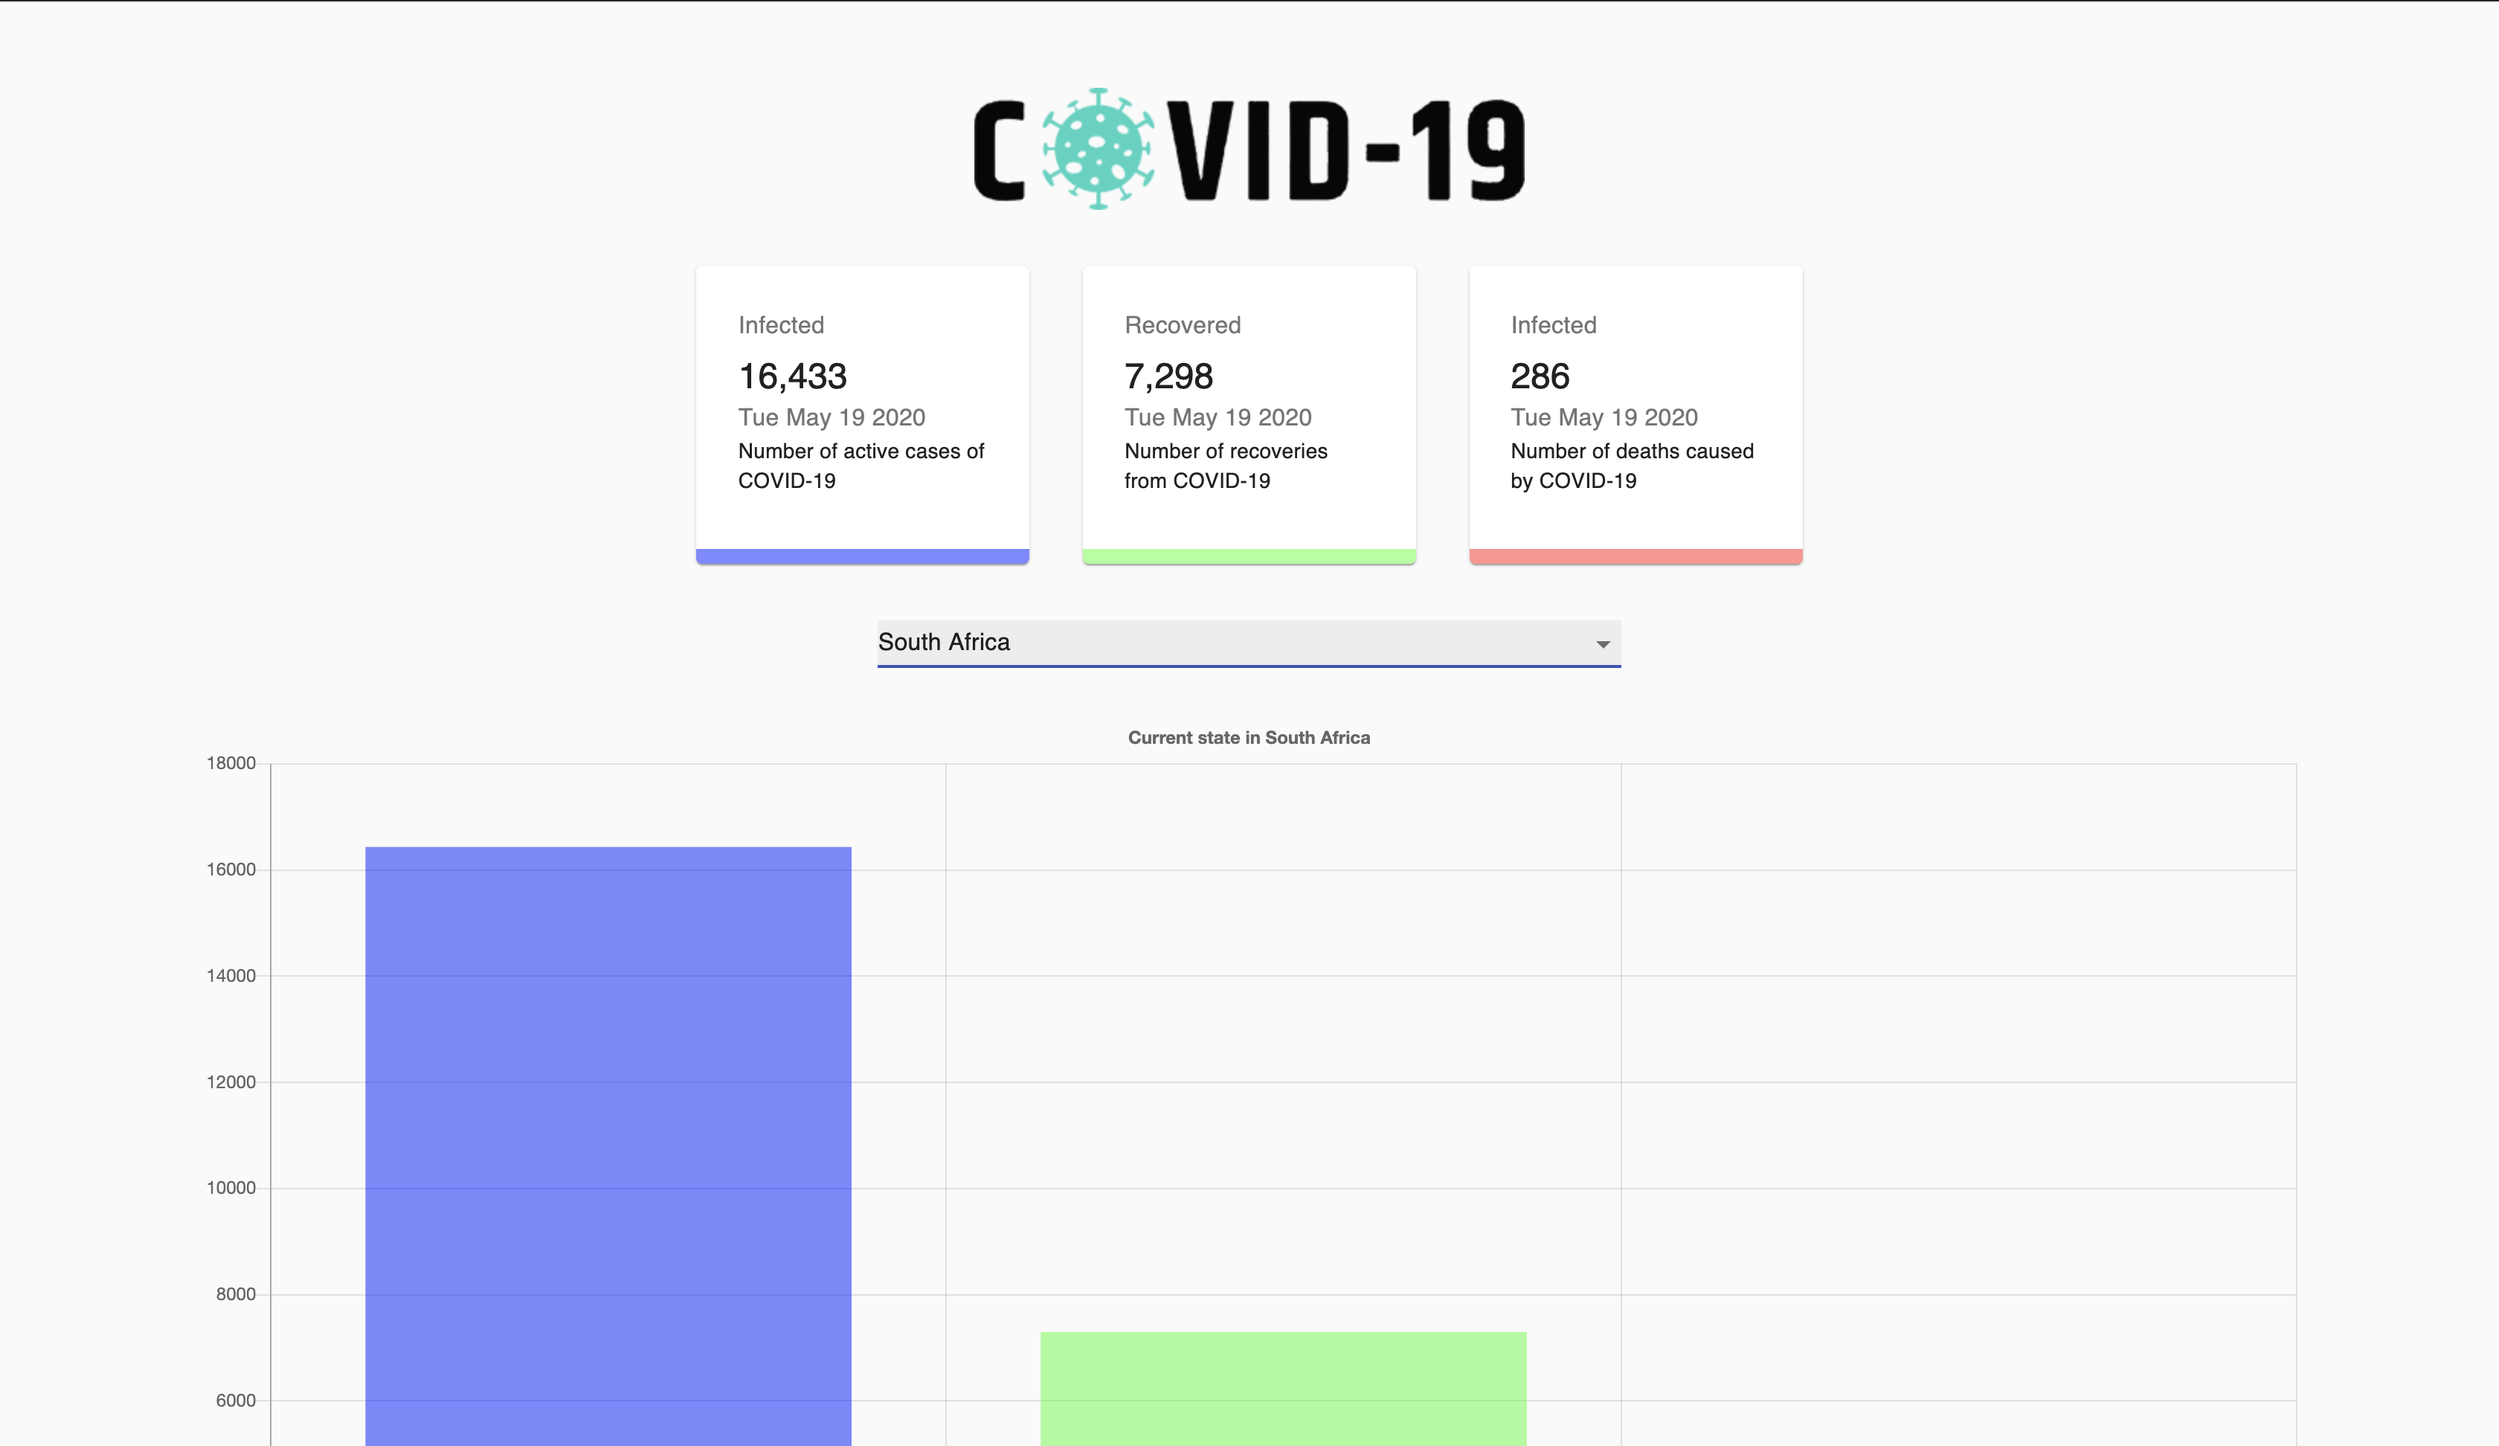
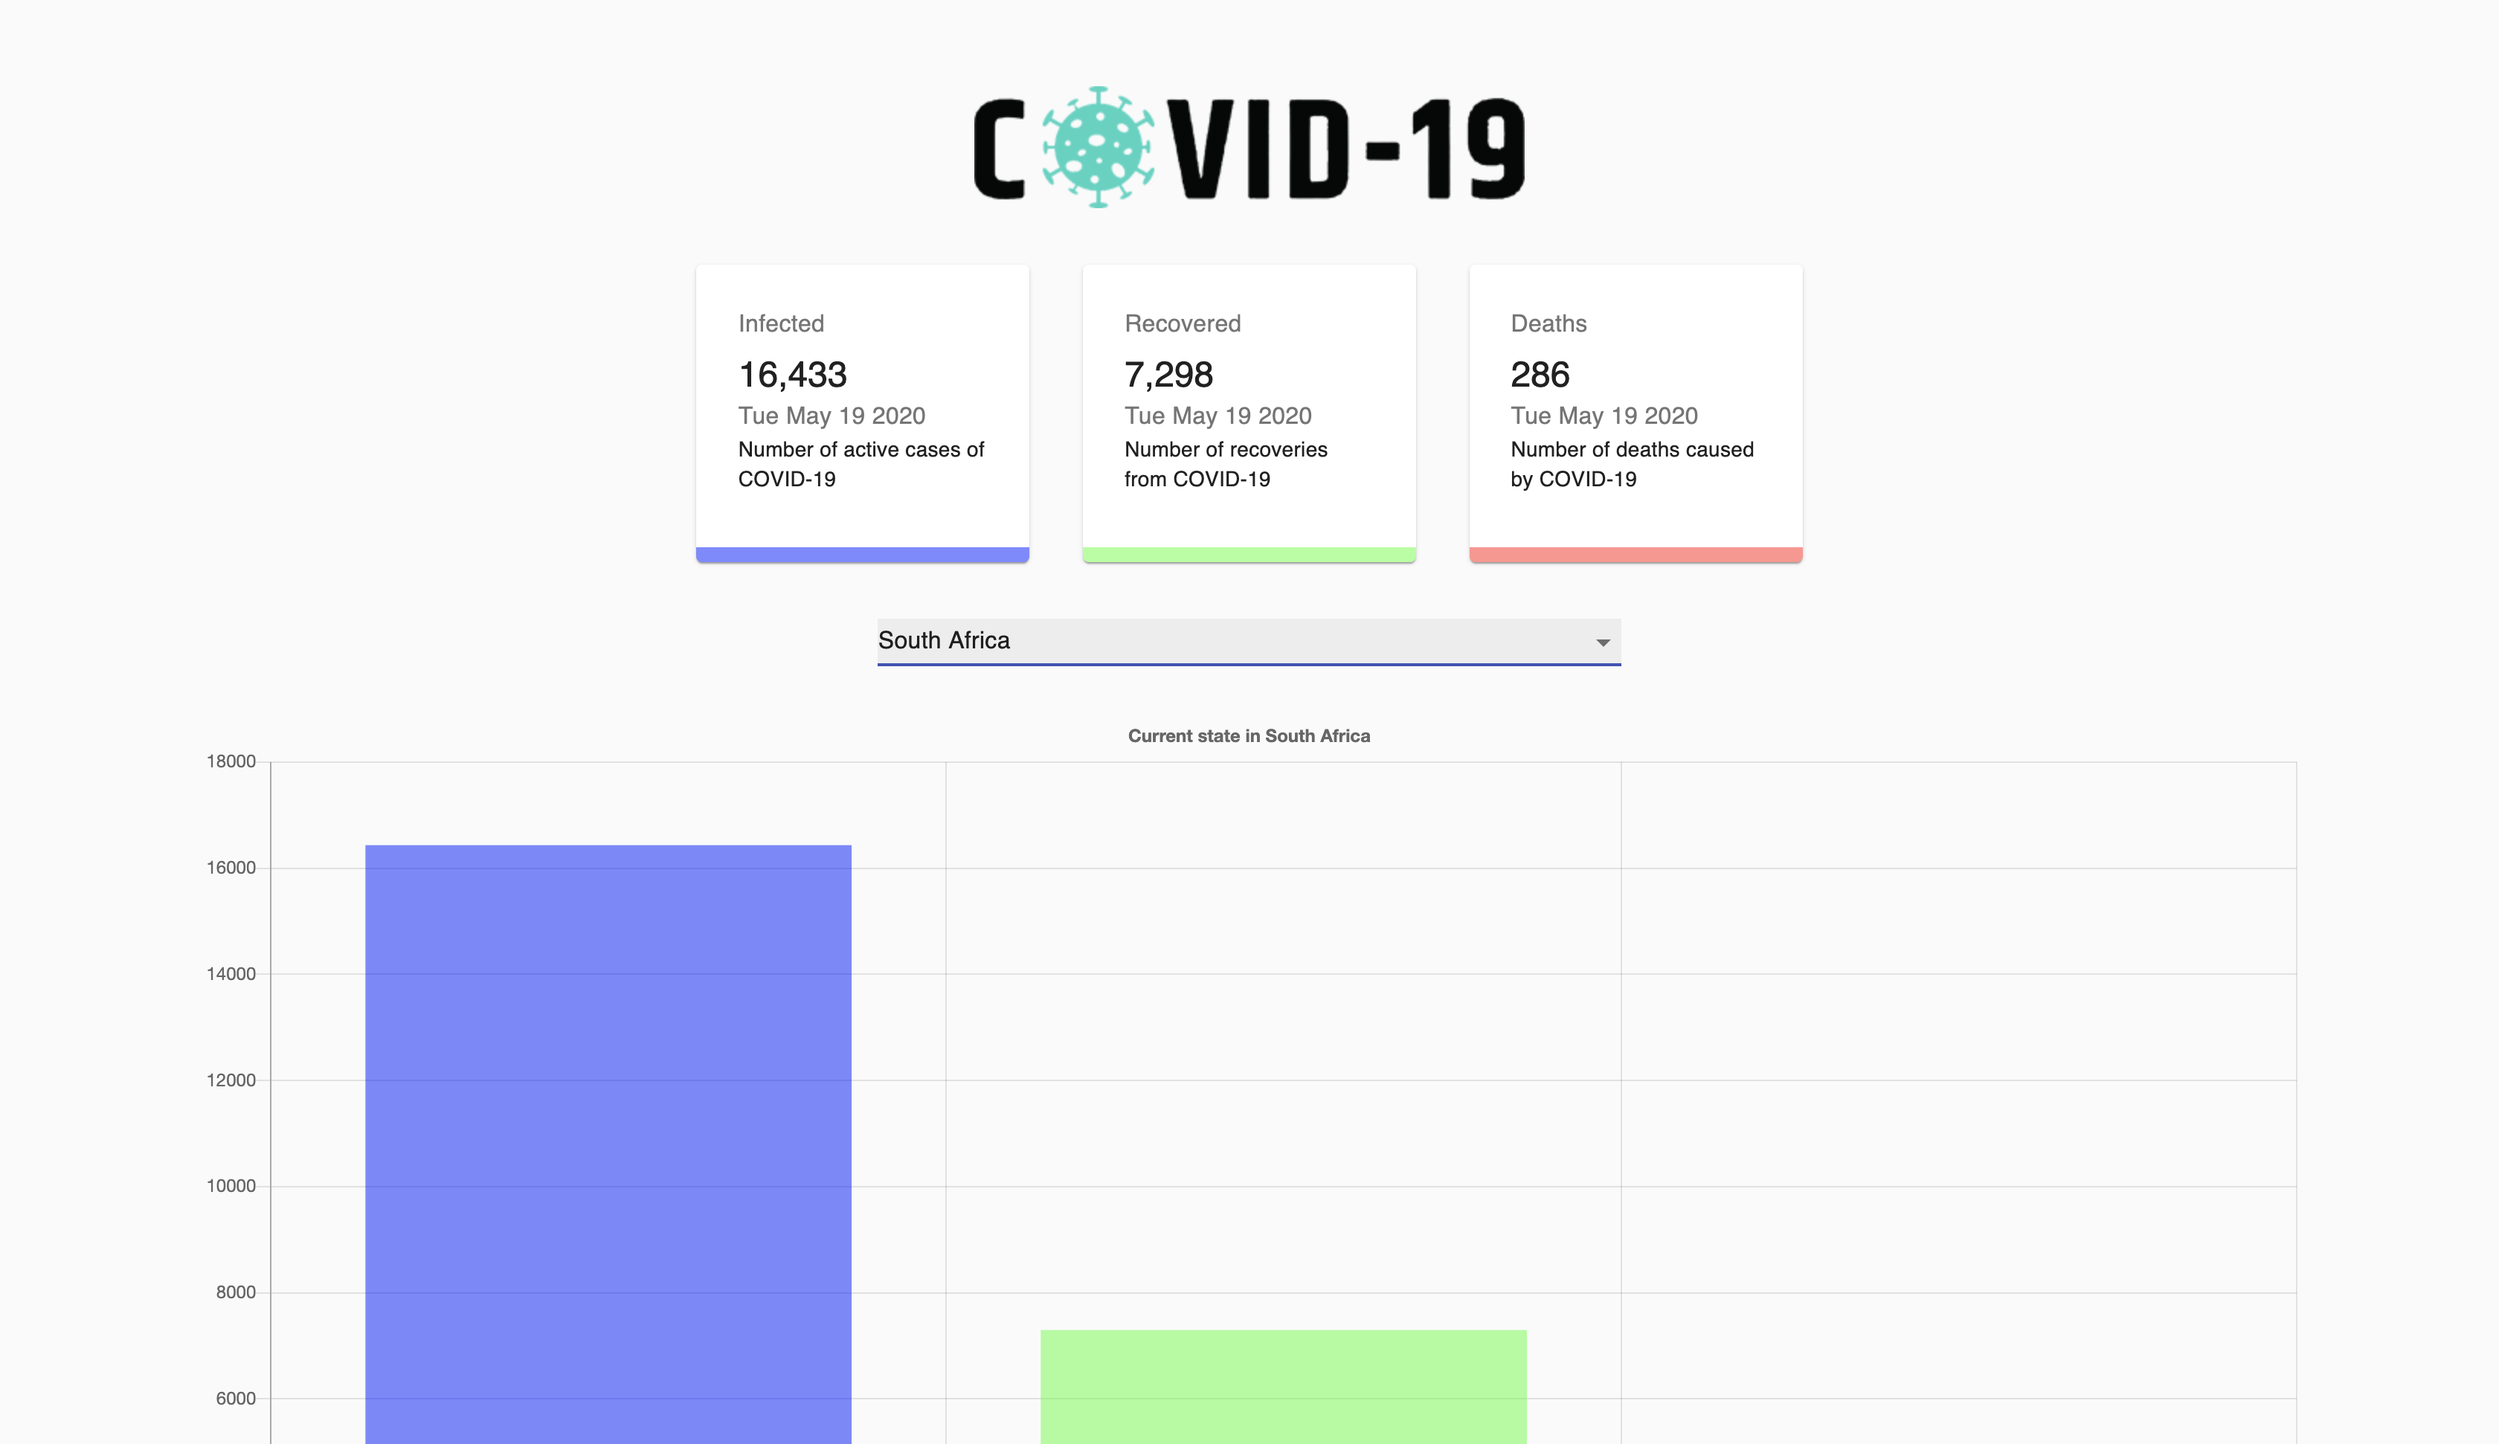
Correcting information

diff --git a/src/components/Cards/Cards.jsx b/src/components/Cards/Cards.jsx
@@ -78,7 +78,7 @@ const Cards = ({ data: { confirmed, recovered, deaths, lastUpdate } }) => {
         >
           <CardContent>
             <Typography color="textSecondary" gutterBottom>
-              Infected
+              Deaths
             </Typography>
             <Typography variant="h5">
               <CountUp
